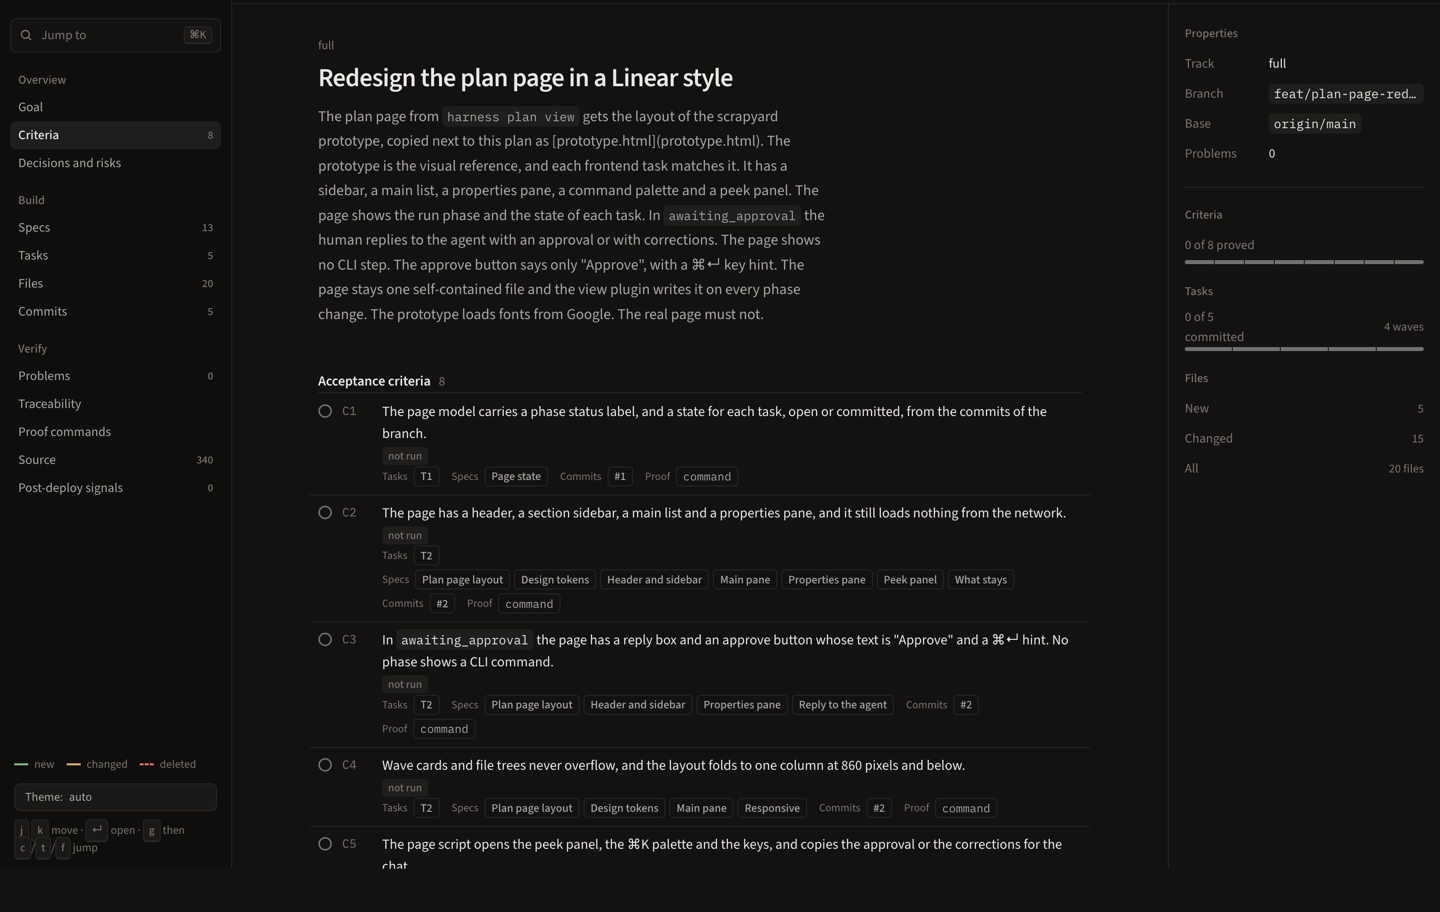
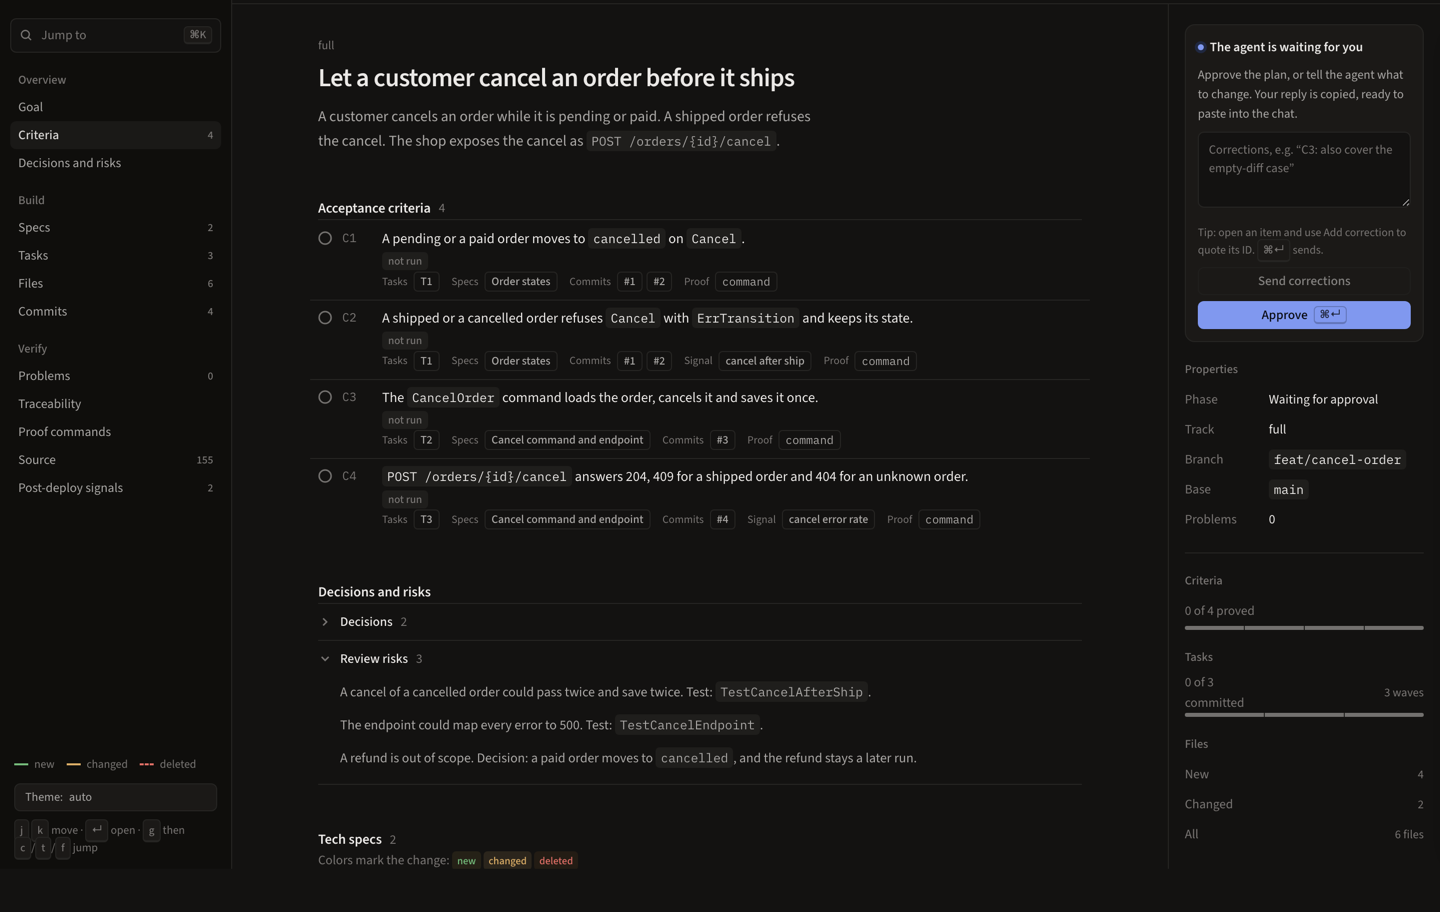
docs(readme): walk the first run step by step with a real cancel-order plan

diff --git a/README.md b/README.md
@@ -59,42 +59,58 @@ Without the plugin, `harness init --host claude` (or `--host codex`) writes the 
 
 ## Usage
 
-Start a run in Claude Code with `/90p:harness <prompt>`, or in Codex with `$90p:harness <prompt>`. The agent then drives the loop, and you answer its questions.
-
 ### Your first run
+
+This walkthrough follows one real request in a small Go shop. An order there moves from `pending` to `paid` to `shipped`. You type one line, answer the questions, read one page and merge one pull request.
+
+**1. Ask for the change.** In Claude Code, type the line below. In Codex, start it with `$90p:harness` instead.
 
 ```text
 /90p:harness Let a customer cancel an order before it ships
 ```
 
-The agent writes the plan, and `harness plan view` shows it as one page. The page shows the phase, the state of each task, the proof of each criterion, the diagrams and the tasks. It updates on every phase change:
-
-![The plan summary: the goal, the acceptance criteria with their proof state, and the properties pane](docs/images/plan-view-summary.png)
-
-![The tech specs with their criteria, the change colors and a layout sketch](docs/images/plan-view-specs.png)
-
-![The task board: one column for each wave, with the test first, the files, the DoD and the commit](docs/images/plan-view-tasks.png)
-
-The agent asks the `Plan` question with the options `Approve` and `Change the plan`. A model that you name approves with `harness run approve --by <model> --reason "<one line>"`. Under the hood, the agent runs these commands, and the hooks enforce the order:
+**2. The agent plans.** It reads the code and writes `plan.md` with the criteria, the diagrams and the tasks. You wait. The agent runs these commands, and this is their real output:
 
 ```console
 $ harness run start "Let a customer cancel an order before it ships"
-run 20261108-132848-let-a-customer-cancel-an-order-before-it phase=planning review_round=0 live_round=0
+run 20261111-100957-let-a-customer-cancel-an-order-before-it phase=planning review_round=0 live_round=0
+models: lead=opus explorer=haiku worker=sonnet,haiku reviewer=sonnet,haiku,opus advisor=fable,opus
+$ harness plan check
+plan.md:99: note: diagram kind sequenceDiagram is not checked
+advisor: on, model fable
+wave 1: task 1 (haiku)
+wave 2: task 2 (sonnet)
+wave 3: task 3 (sonnet)
 $ harness run plan
-run 20261108-132848-let-a-customer-cancel-an-order-before-it phase=awaiting_approval review_round=0 live_round=0
-$ harness run approve
-run 20261108-132848-let-a-customer-cancel-an-order-before-it phase=working review_round=0 live_round=0
-$ harness verify
-PASS gates=1 cached=0
-$ harness run review
-run 20261108-132848-let-a-customer-cancel-an-order-before-it phase=reviewing review_round=0 live_round=0
-$ harness run ship
-run 20261108-132848-let-a-customer-cancel-an-order-before-it phase=shipping review_round=0 live_round=0
-$ harness run done --pr https://github.com/acme/shop/pull/42
-run 20261108-132848-let-a-customer-cancel-an-order-before-it phase=done review_round=0 live_round=0
+run 20261111-100957-let-a-customer-cancel-an-order-before-it phase=awaiting_approval review_round=0 live_round=0
 ```
 
-[docs/runs.md](docs/runs.md) shows the full run with its plan and its output.
+**3. Read the plan.** `harness plan view` writes the plan as one page, and the page updates on every phase change. First, check that each criterion says what you want. Criterion 2 says that a shipped order refuses the cancel:
+
+![The plan summary: the goal, the 4 acceptance criteria with their proof state, and the properties pane](docs/images/plan-view-summary.png)
+
+Then check that the diagrams match your model. The new cancel path is in green:
+
+![The tech specs: the order state diagram, with the new cancel path in green](docs/images/plan-view-specs.png)
+
+Last, look at the order of the work. Each task starts with a failing test and names its model:
+
+![The task board: one wave for each task, with the test first, the model, the DoD and the commit](docs/images/plan-view-tasks.png)
+
+**4. Answer and approve.** The agent asks about each open decision. In this plan, the decision was that a cancel does not refund a paid order. Then it asks the `Plan` question with `Approve` and `Change the plan`. Your code does not change before you pick `Approve`. To let a model approve instead, run `harness run approve --by <model> --reason "<one line>"`.
+
+**5. Let it work.** You do nothing in this step. A worker takes each task in wave order, commits the failing test, then the code. `harness verify` runs the gates and the 4 criteria. Then two or more models review the change, a verifier checks each finding, and a worker fixes the real ones.
+
+**6. Merge the pull request.** The agent opens a draft pull request and stops. Only you can merge it, because the guard denies a merge by the agent. After your merge, the agent closes the run with `harness run done --pr <url>`.
+
+**7. Watch production (optional).** With `run.go_live: true`, the run follows the deploy of your merge. `harness live check` then watches the `## Signals` rows of the plan:
+
+| Signal | Breach | Window |
+|---|---|---|
+| cancel error rate | `> 0.01` | 30m |
+| cancel after ship | `> 0` | 1h |
+
+A healthy hour closes the run. A breach sends the run back to `planning` with the findings, and the harness never rolls back for you. [docs/go-live.md](docs/go-live.md) covers the setup, and [docs/runs.md](docs/runs.md) shows a full run.
 
 ### Everyday commands
 
@@ -110,14 +126,6 @@ run 20261108-132848-let-a-customer-cancel-an-order-before-it phase=done review_r
 | `harness lint`, `harness config` | Run the lint packs, or print the effective config |
 | `/90p:report` | File a bug about the harness |
 
-### Example projects
-
-- [`examples/go/`](examples/go/README.md): the `setup` and `gates` keys, with the gate ids of the built-in detection of `go.mod`.
-- [`examples/nextjs/`](examples/nextjs/README.md): the `setup` and `gates` keys and the lint packs `nextjs` and `shadcn`.
-- [`examples/python/`](examples/python/README.md): custom lint packs with ruff and import-linter plugins.
-- [`examples/symfony/`](examples/symfony/README.md): a Makefile with `## setup` and `## gate` targets and a `gates.detect` plugin.
-- [`examples/README.md`](examples/README.md): the four projects side by side, with the gates in containers.
-
 ## Goals
 
 An agent should not merge what you did not approve, or claim what it did not prove. Each goal maps to one part of the harness:
@@ -132,7 +140,7 @@ An agent should not merge what you did not approve, or claim what it did not pro
 
 ## Phases
 
-A run moves through fixed phases. Each move is one row of a transition table in `internal/run/domain`, and a plugin can veto it.
+A run moves through fixed phases. Each move is one row of a transition table in `internal/run/domain`, and a plugin can veto it. A run can also go to `blocked` (for example after the last review round) or `abandoned`. [docs/runs.md](docs/runs.md#run-phases) has the full state diagram and a full run with its output.
 
 | Phase | What happens | Next |
 |---|---|---|
@@ -144,8 +152,6 @@ A run moves through fixed phases. Each move is one row of a transition table in 
 | `releasing`, `observing` | With go-live on, the run follows the deploy and the signals | `harness live check` |
 | `done` | The run is closed | `harness run start` |
 
-A run can also go to `blocked` (for example after the last review round) or `abandoned`. [docs/runs.md](docs/runs.md#run-phases) has the full state diagram, and [docs/go-live.md](docs/go-live.md) covers the release phases.
-
 ## Documents
 
 - [`docs/setup.md`](docs/setup.md): the plugin binary, the lint tools, `harness init` and the step by step setup.
@@ -153,6 +159,7 @@ A run can also go to `blocked` (for example after the last review round) or `aba
 - [`docs/runs.md`](docs/runs.md): a full run, the plan view, the multi-run plan and the run phases.
 - [`docs/plugins.md`](docs/plugins.md): the plugin contract and the five plugin kinds.
 - [`docs/go-live.md`](docs/go-live.md): follow a run from the merge to production.
+- [`examples/README.md`](examples/README.md): four example projects in Go, Next.js, Python and Symfony, with their gates and lint packs.
 - [`docs/contributing.md`](docs/contributing.md): the repository layout, the tests and the bug report.
 - [`DESIGN.md`](DESIGN.md), [`CONTEXT.md`](CONTEXT.md), [`ROADMAP.md`](ROADMAP.md) and [`docs/adr/`](docs/adr/): the design, the terms, the build order and the decisions.
 

diff --git a/docs/runs.md b/docs/runs.md
@@ -122,11 +122,11 @@ The guard acts on each tool call of the agent. For example, a merge goes to `har
 
 The page has three panes: a sidebar with each section and its count, the main list, and a properties pane. The properties pane holds the track, the branch and the progress bars. `j` and `k` move through the list, and `⌘K` opens a palette to jump to any section.
 
-![The plan summary: the goal, the acceptance criteria with their proof state, and the properties pane](images/plan-view-summary.png)
+![The plan summary: the goal, the 4 acceptance criteria with their proof state, and the properties pane](images/plan-view-summary.png)
 
-![The tech specs with their criteria, the change colors and a layout sketch](images/plan-view-specs.png)
+![The tech specs: the order state diagram, with the new cancel path in green](images/plan-view-specs.png)
 
-![The task board: one column for each wave, with the test first, the files, the DoD and the commit](images/plan-view-tasks.png)
+![The task board: one wave for each task, with the test first, the model, the DoD and the commit](images/plan-view-tasks.png)
 
 ## Multi-run plan
 
